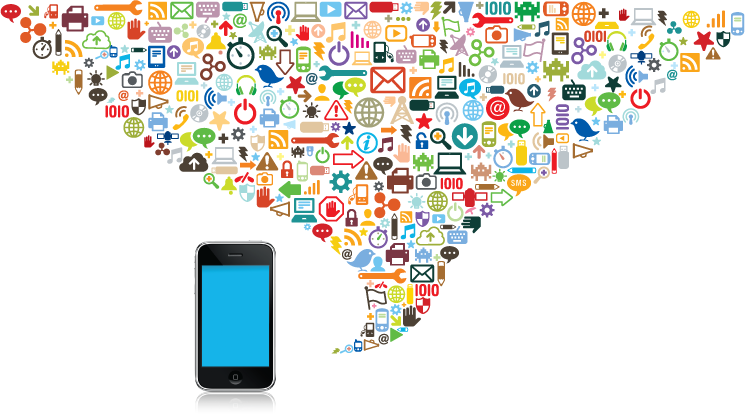
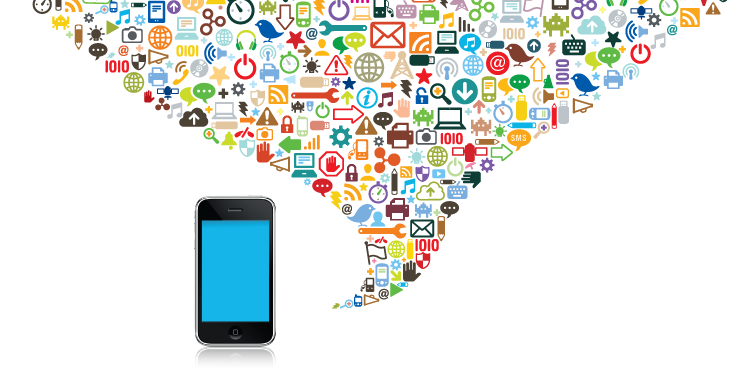
update header image

diff --git a/assets/css/style.css b/assets/css/style.css
@@ -901,7 +901,7 @@ header#main {
   background: #e7e7e7;
 }
 header#main.homepage {
-  height: 403px;
+  min-height: 372px;
 }
 header#main hgroup {
   background: url(../images/white-stripe-pattern.png) repeat;
@@ -951,7 +951,7 @@ header#main hr {
 }
 header#main article {
   color: #606060;
-  padding: 3em 0;
+  padding: 2em 0;
 }
 header#main article h1 {
   font-family: 'HelveticaNeue-Light', 'Helvetica Neue Light', 'Helvetica Neue', Arial, Helvetica, sans-serif;
@@ -993,7 +993,7 @@ header#main .nextprev li {
 }
 header#main figure div {
   margin-left: -200px;
-  background: url(../images/impact/mobile.png) 15px -14px no-repeat;
+  background: url(../images/impact/mobile.png) 15px 0px no-repeat;
 }
 footer {
   color: black;

diff --git a/assets/less/style/header.less b/assets/less/style/header.less
@@ -3,7 +3,7 @@
 header#main {
   background: @impact_background;
   &.homepage {
-    height: 403px;
+    min-height: 372px;
   }
 
   hgroup {
@@ -44,7 +44,7 @@ header#main {
   }
   article {
     color: @light_text;
-    padding: 3em 0;
+    padding: 2em 0;
 
     h1 {
       .light_header(@light_text);
@@ -78,7 +78,7 @@ header#main {
   }
   figure div {
     margin-left: -200px;
-    background: url(../images/impact/mobile.png) 15px -14px no-repeat;
+    background: url(../images/impact/mobile.png) 15px 0px no-repeat;
   }
 }
 
